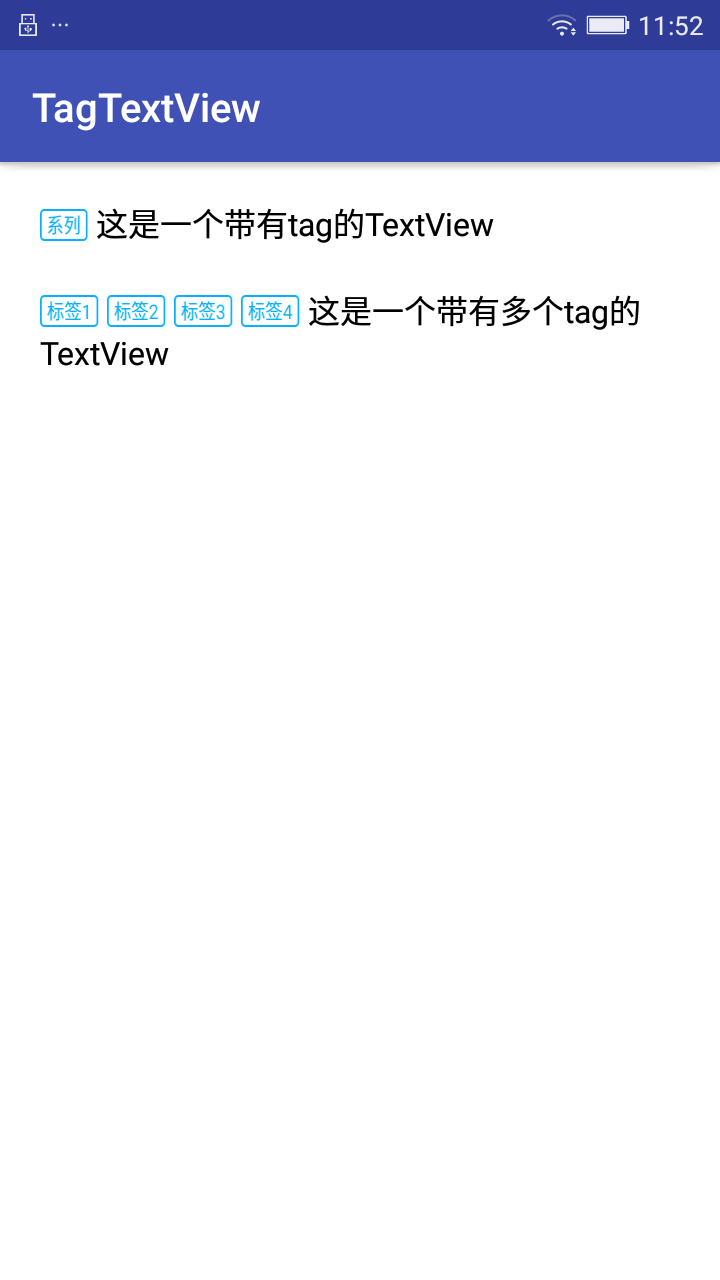
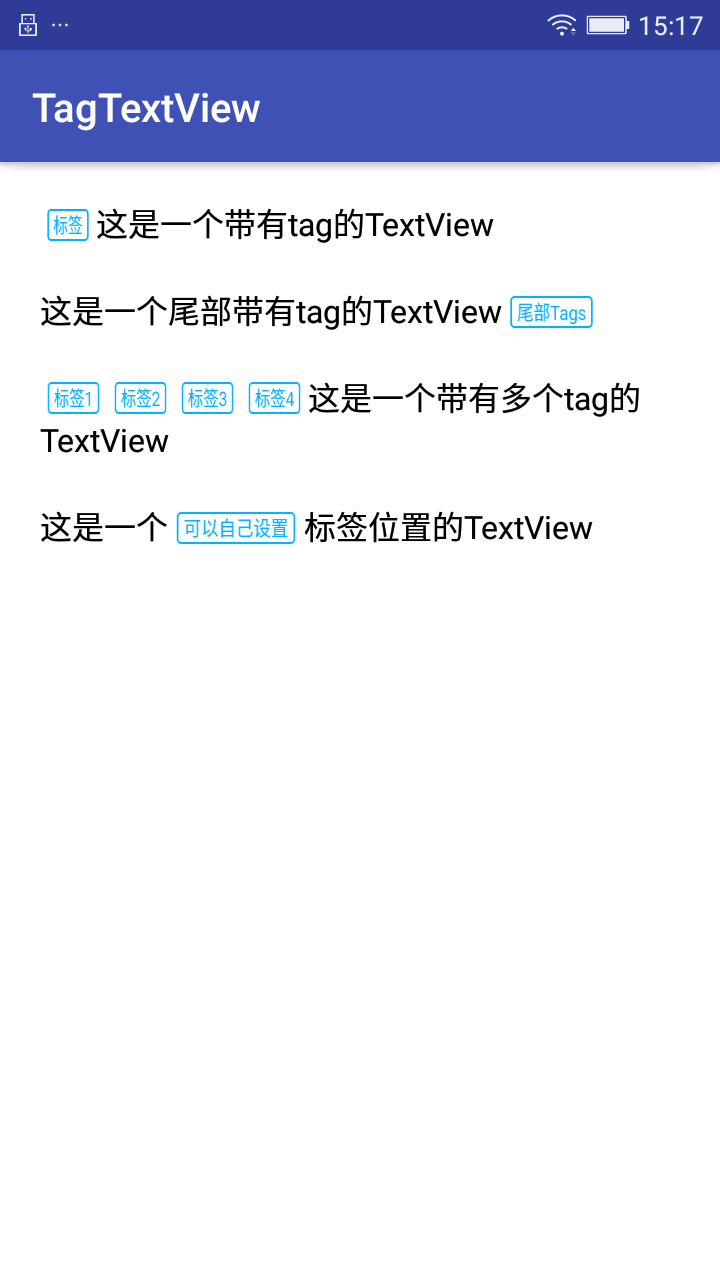
commit

diff --git a/libs/src/main/java/com/xiaozhiguang/views/TagTextView.java b/libs/src/main/java/com/xiaozhiguang/views/TagTextView.java
@@ -1,0 +1,208 @@
+package com.xiaozhiguang.views;
+
+import android.content.Context;
+import android.graphics.Bitmap;
+import android.graphics.drawable.BitmapDrawable;
+import android.graphics.drawable.Drawable;
+import android.support.annotation.NonNull;
+import android.text.Spannable;
+import android.text.SpannableString;
+import android.text.style.ImageSpan;
+import android.util.AttributeSet;
+import android.view.Gravity;
+import android.view.LayoutInflater;
+import android.view.View;
+import android.widget.TextView;
+
+import com.xiaozhiguang.R;
+
+import java.util.ArrayList;
+import java.util.List;
+
+/**
+ * Created by xiaozhiguang on 2017/12/14.
+ */
+
+public class TagTextView extends android.support.v7.widget.AppCompatTextView {
+
+    public static int TAGS_INDEX_AT_START = 0;
+    public static int TAGS_INDEX_AT_END = 1;
+
+    private int tagsLayoutID = R.layout.layout_textview_tags;
+    private int tagsBackgroundStyle = R.drawable.shape_textview_tags_bg;
+
+    private StringBuffer content_buffer;
+    private Context mContext;
+    private TextView tv_tag;
+
+    private int tagsIndex = 0;  //  默认标签在开始的位置
+
+    public TagTextView(Context context) {
+        super(context);
+        mContext = context;
+    }
+
+    public TagTextView(Context context, AttributeSet attrs) {
+        super(context, attrs);
+        mContext = context;
+    }
+
+    public TagTextView(Context context, AttributeSet attrs, int defStyleAttr) {
+        super(context, attrs, defStyleAttr);
+        mContext = context;
+    }
+
+    /**
+     * 设置标签的布局
+     * @param tagsLayoutID
+     */
+    public void setTagsLayoutID(int tagsLayoutID) {
+        this.tagsLayoutID = tagsLayoutID;
+    }
+
+    /**
+     *  设置标签的背景样式
+     * @param tagsBackgroundStyle
+     */
+    public void setTagsBackgroundStyle(int tagsBackgroundStyle) {
+        this.tagsBackgroundStyle = tagsBackgroundStyle;
+    }
+
+    /**
+     * 设置标签是在头部还是尾部
+     * @param tagsIndex
+     */
+    public void setTagsIndex(int tagsIndex) {
+        this.tagsIndex = tagsIndex;
+    }
+
+    /**
+     * 设置标签和文字内容(单个)
+     *
+     * @param tag     标签内容
+     * @param content 标签文字
+     */
+    public void setSingleTagAndContent(@NonNull String tag, String content) {
+        List<String> tagList = new ArrayList<>();
+        tagList.add(tag);
+        setMultiTagAndContent(tagList, content);
+    }
+
+    /**
+     * 设置标签和文字内容(多个)
+     *
+     * @param tags    标签内容
+     * @param content 标签文字
+     */
+    public void setMultiTagAndContent(@NonNull List<String> tags, String content) {
+        if (tagsIndex == TAGS_INDEX_AT_START) {
+            setTagStart(tags, content);
+        } else {
+            setTagEnd(tags, content);
+        }
+    }
+
+    /**
+     * 标签显示在头部位置
+     *
+     * @param tags    标签内容
+     * @param content 标签文字
+     */
+    public void setTagStart(List<String> tags, String content) {
+        int endIndex = 0;
+        int startIndex = 1;
+        content_buffer = new StringBuffer();
+        for (String item : tags) {
+            content_buffer.append(item);
+        }
+        content_buffer.append(content);
+        SpannableString spannableString = new SpannableString(content_buffer);
+        for (int i = 0; i < tags.size(); i++) {
+            String item = tags.get(i);
+            endIndex += item.length();
+            //  设置标签的布局
+            View view = LayoutInflater.from(mContext).inflate(tagsLayoutID, null);
+            tv_tag = view.findViewById(R.id.tv_tags);
+            tv_tag.setText(item);
+            //  设置背景样式
+            tv_tag.setBackgroundResource(tagsBackgroundStyle);
+
+            Bitmap bitmap = convertViewToBitmap(view);
+            Drawable drawable = new BitmapDrawable(bitmap);
+            drawable.setBounds(0, 0, tv_tag.getWidth(), tv_tag.getHeight());
+
+            ImageSpan span = new ImageSpan(drawable, ImageSpan.ALIGN_BASELINE);
+            spannableString.setSpan(span, startIndex - 1, endIndex, Spannable.SPAN_INCLUSIVE_INCLUSIVE);
+            startIndex += item.length();
+        }
+        setText(spannableString);
+        setGravity(Gravity.CENTER_VERTICAL);
+    }
+
+    /**
+     * 标签显示在头部位置
+     *
+     * @param tags    标签内容
+     * @param content 标签文字
+     */
+    public void setTagEnd(List<String> tags, String content) {
+        content_buffer = new StringBuffer(content);
+        for (String item : tags) {
+            content_buffer.append(item);
+        }
+        SpannableString spannableString = new SpannableString(content_buffer);
+        for (int i = 0; i < tags.size(); i++) {
+            String item = tags.get(i);
+            //  设置标签的布局
+            View view = LayoutInflater.from(mContext).inflate(tagsLayoutID, null);
+            tv_tag = view.findViewById(R.id.tv_tags);
+            tv_tag.setText(item);
+            //  设置背景样式
+            tv_tag.setBackgroundResource(tagsBackgroundStyle);
+
+            Bitmap bitmap = convertViewToBitmap(view);
+            Drawable drawable = new BitmapDrawable(bitmap);
+            drawable.setBounds(0, 0, tv_tag.getWidth(), tv_tag.getHeight());
+
+            ImageSpan span = new ImageSpan(drawable, ImageSpan.ALIGN_BASELINE);
+            spannableString.setSpan(span, content_buffer.length() - item.length(), content_buffer.length(), Spannable.SPAN_INCLUSIVE_INCLUSIVE);
+        }
+        setText(spannableString);
+        setGravity(Gravity.CENTER_VERTICAL);
+    }
+
+    /**
+     * 指定位置设置标签
+     *
+     * @param start   开始位置从0开始
+     * @param end     结束位置长度-1
+     * @param content 文字内容
+     */
+    public void setTagAnyway(int start, int end, String content) {
+        SpannableString spannableString = new SpannableString(content);
+        //  设置标签的布局
+        View view = LayoutInflater.from(mContext).inflate(tagsLayoutID, null);
+        String item = content.substring(start, end);
+        tv_tag = view.findViewById(R.id.tv_tags);
+        tv_tag.setText(item);
+        //  设置背景样式
+        tv_tag.setBackgroundResource(tagsBackgroundStyle);
+
+        Bitmap bitmap = convertViewToBitmap(view);
+        Drawable drawable = new BitmapDrawable(bitmap);
+        drawable.setBounds(0, 0, tv_tag.getWidth(), tv_tag.getHeight());
+
+        ImageSpan span = new ImageSpan(drawable, ImageSpan.ALIGN_BASELINE);
+        spannableString.setSpan(span, start, end, Spannable.SPAN_INCLUSIVE_INCLUSIVE);
+        setText(spannableString);
+        setGravity(Gravity.CENTER_VERTICAL);
+    }
+
+    private static Bitmap convertViewToBitmap(View view) {
+        view.measure(MeasureSpec.makeMeasureSpec(0, MeasureSpec.UNSPECIFIED), MeasureSpec.makeMeasureSpec(0, MeasureSpec.UNSPECIFIED));
+        view.layout(0, 0, view.getMeasuredWidth(), view.getMeasuredHeight());
+        view.buildDrawingCache();
+        Bitmap bitmap = view.getDrawingCache();
+        return bitmap;
+    }
+}

diff --git a/app/src/main/java/com/xiaozhiguang/main/TagTextViewActivity.java b/app/src/main/java/com/xiaozhiguang/main/TagTextViewActivity.java
@@ -1,7 +1,7 @@
 package com.xiaozhiguang.main;
 
-import android.support.v7.app.AppCompatActivity;
 import android.os.Bundle;
+import android.support.v7.app.AppCompatActivity;
 
 import com.xiaozhiguang.views.TagTextView;
 
@@ -12,20 +12,35 @@ public class TagTextViewActivity extends AppCompatActivity {
 
     private TagTextView tv_with_tags;
     private TagTextView tv_with_multiple_tags;
+    private TagTextView tv_with_single_tags_end;
+    private TagTextView tv_with_single_tags_anyway;
 
     @Override
     protected void onCreate(Bundle savedInstanceState) {
         super.onCreate(savedInstanceState);
         setContentView(R.layout.activity_tag_text_view);
+
         tv_with_tags = findViewById(R.id.tv_with_tags);
         tv_with_multiple_tags = findViewById(R.id.tv_with_multiple_tags);
+        tv_with_single_tags_end = findViewById(R.id.tv_with_single_tags_end);
+        tv_with_single_tags_anyway = findViewById(R.id.tv_with_single_tags_anyway);
 
-        tv_with_tags.setSingleTagAndContent("系列", "这是一个带有tag的TextView");
+        //  头部标签
+        tv_with_tags.setSingleTagAndContent("标签", "这是一个带有tag的TextView");
+
+        //  多个标签
         List<String> tags = new ArrayList<>();
         tags.add("标签1");
         tags.add("标签2");
         tags.add("标签3");
         tags.add("标签4");
         tv_with_multiple_tags.setMultiTagAndContent(tags, "这是一个带有多个tag的TextView");
+
+        //  尾部标签
+        tv_with_single_tags_end.setTagsIndex(TagTextView.TAGS_INDEX_AT_END);
+        tv_with_single_tags_end.setSingleTagAndContent("尾部Tags", "这是一个尾部带有tag的TextView");
+
+        //  自定义位置的标签
+        tv_with_single_tags_anyway.setTagAnyway(4, 10, "这是一个可以自己设置标签位置的TextView");
     }
 }
